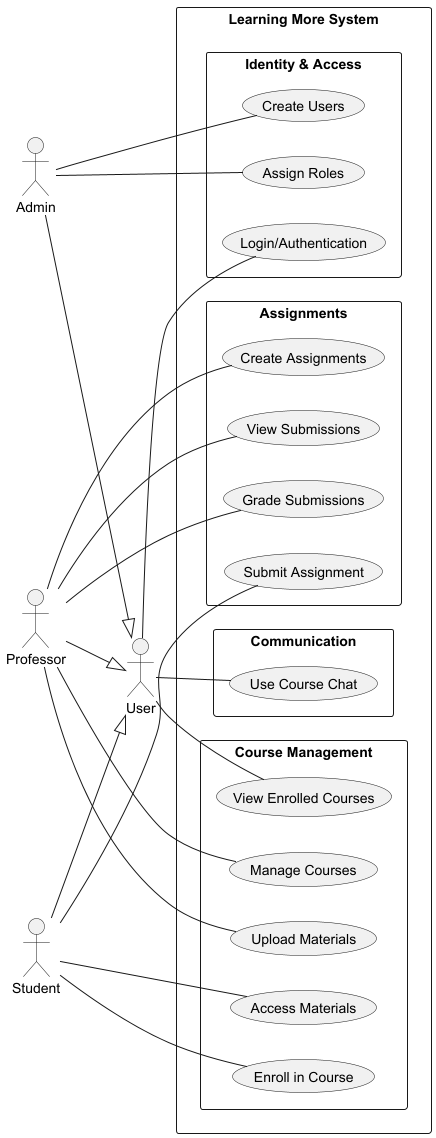
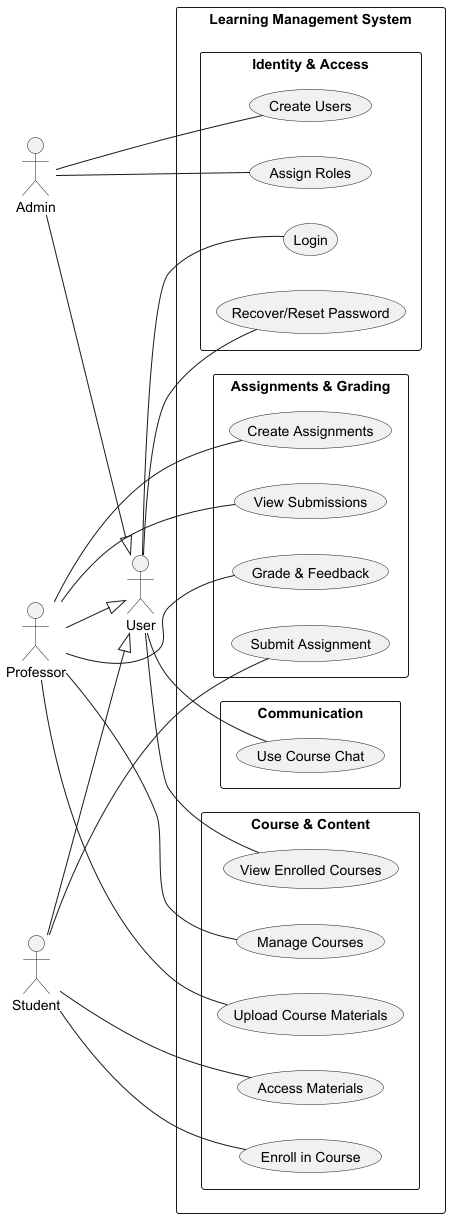
docs: update functional requirements and Phase1-Deliverable.md

diff --git a/Deliverables/Phase1/Phase1-Deliverable.md b/Deliverables/Phase1/Phase1-Deliverable.md
@@ -2,43 +2,43 @@
 
 ## 1. Project Description
 
-LearningMore is a secure academic platform designed to support course management, class materials distribution, assignment submissions, and communication between students and professors.
+LearningMore is a secure academic platform designed to support course management, class materials distribution, assignment
+submissions, and communication between students and professors.
 
-The system is developed in the context of DESOFS and follows a Secure Software Development Lifecycle (SSDLC), focusing on secure design, threat modeling, and risk mitigation.
-
-Phase 1 security scope for this deliverable is restricted to:
-
-* Course Management
-* Assignment Management
+The system is developed in the context of DESOFS and follows a Secure Software Development Lifecycle (SSDLC), focusing 
+on secure design, threat modeling, and risk mitigation.
 
 ---
 
 ## 2. System Overview
 
-### Actors
+### 2.1 Actors
 
-* Admin
-* Professor
-* Student
+* **Admin:** Manages user accounts, roles, and system status.
+* **Professor:** Manages courses, uploads resources, creates assignments, and grades submissions.
+* **Student:** Enrolls in courses, accesses materials, and submits assignments.
+* **User:** General actor representing shared functionalities like Login and Chat.
 
-### Core Components
+### 2.2 Core Components
 
-* REST API
-* Database (relational)
-* File storage system
+* **Service Layer (REST API):** Modular backend handling business logic and security.
+* **Persistence Layer:** Relational database for structured data and metadata.
+* **Storage Layer:** External file storage for academic resources and student uploads.
 
-### Assets
+### 2.3 Assets
 
-* User credentials
-* Course materials
-* Assignment submissions
-* Grades and feedback
-* Chat messages
-* Logs
+* **Identity:** User credentials (hashes) and session tokens.
+* **Content:** Course materials (PDFs, videos) and descriptions.
+* **Evaluation:** Student submissions, final grades, and professor feedback.
+* **Interaction:** Real-time chat messages and logs.
+* **Audit:** Authentication events and system activity logs.
 
-### System Boundary
 
-The system includes the backend API, database, and file storage. External entities interact through HTTP requests.
+### 2.4 System Boundary
+
+The system boundary encompasses the backend API, the relational database, and the file storage system. All external 
+entities (Admin, Professor, and Student) interact with the system exclusively through secure HTTP requests (REST API), 
+which serves as the primary gateway for data exchange and functional execution.
 
 ---
 
@@ -46,16 +46,18 @@ The system includes the backend API, database, and file storage. External entiti
 
 ### User Management
 
-* FR1: Admin can create users
-* FR2: Admin can assign roles
-* FR3: Users can authenticate using email and password
+* FR1: The system shall allow an administrator to create and manage user accounts.
+* FR2: The system shall allow an administrator to assign and modify user roles (Admin, Professor, Student).
+* FR3: The system shall allow users to authenticate securely using their email and password.
+* FR3.1: The system shall provide a mechanism for users to recover or reset their passwords.
 
 ### Course Management
 
-* FR4: Professors can create courses
-* FR5: Professors can manage course information
-* FR6: Students can enroll in courses
-* FR7: Users can view enrolled courses
+* FR4: The system shall allow professors to create new courses with a unique code and title.
+* FR5: The system shall allow professors to update course descriptions and information.
+* FR6: The system shall allow students to enroll in available courses.
+* FR7: The system shall allow users to view a dashboard with their active and enrolled courses.
+* FR8: The system shall allow professors to organize and upload learning resources to their courses.
 
 ### Resource Management
 
@@ -99,7 +101,8 @@ The system includes the backend API, database, and file storage. External entiti
 
 ## 5. Security Requirements
 
-Requirements are justified by threat model results (STRIDE), OWASP ASVS good practices, and academic-record protection obligations (confidentiality, integrity, accountability).
+Requirements are justified by threat model results (STRIDE), OWASP ASVS good practices, and academic-record protection 
+obligations (confidentiality, integrity, accountability).
 
 ### 5.1 Authentication and Access Control (Threat-driven + ASVS V2/V4)
 
@@ -190,19 +193,30 @@ The system follows a layered architecture:
 
 ## 8. Domain Model
 
-Main aggregates:
+The domain model is organized into **Aggregates** to ensure data consistency and define clear boundaries between
+different business contexts.
 
-* User
-* Course
-* Submission
-* Chat
+### Main Aggregates (Aggregate Roots):
 
-Supporting entities:
+* **User:** Manages identity, authentication, and system roles.
+* **Course:** The central hub for academic content, organizing sessions and materials.
+* **Assignment:** Manages the definition of tasks and the lifecycle of student work.
+* **Chat:** Handles the real-time communication infrastructure.
 
-* Enrollment
-* Assignment
-* Resource
-* ChatMessage
+### Supporting Entities (Internal to Aggregates):
+
+* **Within Course:**
+    * **Enrollment:** Records the link between a student and a course.
+    * **ClassSession:** Defines specific scheduled lessons or topics.
+    * **Resource:** Manages files and external links (PDFs, Videos, etc.).
+* **Within Assignment:**
+    * **Submission:** Represents the work delivered by a student, including grades and feedback.
+* **Within Chat:**
+    * **ChatMessage:** The individual messages sent within a specific ChatRoom.
+
+### Domain Model Diagram
+
+![Domain Model](analysis-and-requirements/domain-model.png)
 
 ---
 
@@ -210,19 +224,31 @@ Supporting entities:
 
 ### 9.1 DFD Level 0
 
-(To be added)
+![DFD Level 0](images/DFD%20Level%200%20-%20STRIDE%20diagram.png)
 
 ### 9.2 DFD Level 1
 
-(To be added)
+![DFD Level 1](images/Core%20DFD.png)
+
+### 9.3 DFD Level 2 - User Management
+
+![DFD Level 2 - User Management](images/DFD%20Level%202%20-%20User%20Management%20STRIDE%20diagram.png)
 
 ### 9.3 DFD Level 2 - Course
 
-![Course DFD](imgs/coursedfd.png)
+![DFD Level 2 - Course Management](images/coursedfd.png)
 
 ### 9.4 DFD Level 2 - Assignment
 
-![Assignment DFD](imgs/assignementdfd.png)
+![DFD Level 2 - Assigment Management](images/assignementdfd.png)
+
+### 9.3 DFD Level 2 - Chat
+
+![DFD Level 2 - Chat Management](images/DFD%20Level%202%20-%20Chat%20Management%20STRIDE%20diagram.png)
+
+### 9.4 DFD Level 2 - File
+
+![DFD Level 2 - File Management](images/DFD%20Level%202%20-%20File%20Management%20STRIDE%20diagram.png)
 
 ---
 
@@ -290,16 +316,16 @@ Prioritization rule:
 
 Top prioritized risks (course + assignment):
 
-| Risk ID | Threat | L | I | Score | Priority | Justification |
-|---|---|---:|---:|---:|---|---|
-| R1 | Forged JWT/token bypasses access control | 4 | 5 | 20 | Critical | Enables unauthorized access to core academic operations across modules |
-| R2 | Privilege escalation/authorization bypass (grading, enrollment) | 4 | 5 | 20 | Critical | Compromises grading and enrollment integrity directly |
-| R3 | Unauthorized read of grades/submissions/course restricted data | 4 | 5 | 20 | Critical | Direct confidentiality breach of academic records |
-| R4 | Grade/deadline/enrollment tampering | 4 | 5 | 20 | Critical | Direct integrity violation with high institutional impact |
-| R5 | Audit trail tampering or missing evidence | 3 | 5 | 15 | High | Breaks accountability and dispute resolution |
-| R6 | SQL injection in course queries | 3 | 5 | 15 | High | Potential bulk data exfiltration/tampering |
-| R7 | DoS on submission/enrollment/grading endpoints | 4 | 4 | 16 | High | Directly impacts availability during critical deadlines |
-| R8 | Repudiation of enrollment/grading actions | 3 | 3 | 9 | Medium | Lower immediate impact but affects legal/academic dispute handling |
+| Risk ID | Threat                                                          | L | I | Score | Priority | Justification                                                          |
+|---------|-----------------------------------------------------------------|--:|--:|------:|----------|------------------------------------------------------------------------|
+| R1      | Forged JWT/token bypasses access control                        | 4 | 5 |    20 | Critical | Enables unauthorized access to core academic operations across modules |
+| R2      | Privilege escalation/authorization bypass (grading, enrollment) | 4 | 5 |    20 | Critical | Compromises grading and enrollment integrity directly                  |
+| R3      | Unauthorized read of grades/submissions/course restricted data  | 4 | 5 |    20 | Critical | Direct confidentiality breach of academic records                      |
+| R4      | Grade/deadline/enrollment tampering                             | 4 | 5 |    20 | Critical | Direct integrity violation with high institutional impact              |
+| R5      | Audit trail tampering or missing evidence                       | 3 | 5 |    15 | High     | Breaks accountability and dispute resolution                           |
+| R6      | SQL injection in course queries                                 | 3 | 5 |    15 | High     | Potential bulk data exfiltration/tampering                             |
+| R7      | DoS on submission/enrollment/grading endpoints                  | 4 | 4 |    16 | High     | Directly impacts availability during critical deadlines                |
+| R8      | Repudiation of enrollment/grading actions                       | 3 | 3 |     9 | Medium   | Lower immediate impact but affects legal/academic dispute handling     |
 
 Risk acceptance criteria:
 
@@ -316,16 +342,16 @@ Mitigations are prioritized by risk score and focus first on Critical and High r
 
 Priority mitigation plan:
 
-| Risk ID | Key Mitigations | Feasibility | Priority |
-|---|---|---|---|
-| R1 | JWT signature/issuer/audience/expiry validation, short token TTL, refresh rotation, revocation list | High (framework supported) | Immediate |
-| R2 | Centralized authorization service, deny-by-default RBAC, ownership/enrollment checks per request, negative-path tests | High | Immediate |
-| R3 | Row-level authorization, response field filtering, secure object references, strict course-enrollment checks for reads | Medium-High | Immediate |
-| R4 | Server-side schema validation, immutable audit of grade/deadline/enrollment changes, optimistic locking/version checks | Medium | Immediate |
-| R5 | Append-only audit log storage, signed/hash-chained entries, separated log access roles, off-system replication | Medium | Immediate |
-| R6 | Parameterized queries only, ORM safe patterns, input allowlists, SAST rules for injection sinks | High | Immediate |
-| R7 | Endpoint rate limits, quota per actor/course, bounded worker pools, queue/backpressure, API circuit breakers | High | Immediate |
-| R8 | Actor-bound non-repudiation metadata (timestamp, IP, actor id), event correlation IDs, retention policy | High | Planned |
+| Risk ID | Key Mitigations                                                                                                        | Feasibility                | Priority  |
+|---------|------------------------------------------------------------------------------------------------------------------------|----------------------------|-----------|
+| R1      | JWT signature/issuer/audience/expiry validation, short token TTL, refresh rotation, revocation list                    | High (framework supported) | Immediate |
+| R2      | Centralized authorization service, deny-by-default RBAC, ownership/enrollment checks per request, negative-path tests  | High                       | Immediate |
+| R3      | Row-level authorization, response field filtering, secure object references, strict course-enrollment checks for reads | Medium-High                | Immediate |
+| R4      | Server-side schema validation, immutable audit of grade/deadline/enrollment changes, optimistic locking/version checks | Medium                     | Immediate |
+| R5      | Append-only audit log storage, signed/hash-chained entries, separated log access roles, off-system replication         | Medium                     | Immediate |
+| R6      | Parameterized queries only, ORM safe patterns, input allowlists, SAST rules for injection sinks                        | High                       | Immediate |
+| R7      | Endpoint rate limits, quota per actor/course, bounded worker pools, queue/backpressure, API circuit breakers           | High                       | Immediate |
+| R8      | Actor-bound non-repudiation metadata (timestamp, IP, actor id), event correlation IDs, retention policy                | High                       | Planned   |
 
 Implementation order:
 
@@ -414,22 +440,22 @@ Traceability standard:
 
 Course + Assignment scoped traceability (extract):
 
-| Requirement | Threat(s) | Mitigation(s) | Security Test(s) |
-|---|---|---|---|
-| SR2 Secure authentication | A1, C1, C2, A12 | JWT hardening, lockout, MFA for privileged roles | ST-01 invalid/forged token rejection; ST-02 credential stuffing lockout |
-| SR4 RBAC enforcement | A2, A13, C10, C11 | Centralized authorization with deny-by-default | ST-03 student cannot execute professor-only actions |
-| SR5 Permission-bound access | A4, A9, A14, C8 | Row-level checks, object ownership validation | ST-04 unauthorized user cannot read grades/submissions/course private data |
-| SR6 Enrollment validation for course data | C8, C9, C10 | Enrollment precondition checks for reads and writes | ST-05 non-enrolled student denied restricted course operations |
-| SR7 No sensitive data in logs | A4, C15 | Log redaction and structured logging policies | ST-06 verify logs contain no sensitive payload fields |
-| SR9 File/data access authorization | A9, A10, A15 | Authorized access policy plus integrity controls | ST-07 unauthorized file read/write blocked |
-| SR10 Server-side input validation | A7, C3, C4, C5, C18 | Strict validation schemas and business-rule validation | ST-08 invalid payloads rejected with safe errors |
-| SR11 Upload validation | A3, A5, A10 | File type/size checks, malware scanning, integrity checks | ST-09 malicious or oversized upload rejected |
-| SR12 Path traversal prevention | A9 | Canonical path controls, storage isolation | ST-10 traversal payloads cannot escape storage root |
-| SR13 HTTPS communication | A1, C1 | TLS-only transport and strict redirect policies | ST-11 plaintext HTTP denied in production profile |
-| SR14 Secure headers | C8, A14 | Security headers and cache-control hardening | ST-12 headers validated in all auth/data endpoints |
-| SR15 Third-party dependency security | C16 | Dependency scanning and patch policy | ST-13 CI dependency vulnerability gate |
-| SR16 Security event logging | A6, A11, A16, C12, C13, C17 | Append-only audit logging and correlation IDs | ST-14 all sensitive actions generate auditable events |
-| SR17 No sensitive information in monitoring outputs | A4, C15 | Redaction in logs/traces/alerts | ST-15 observability data reviewed for leakage |
+| Requirement                                         | Threat(s)                   | Mitigation(s)                                             | Security Test(s)                                                           |
+|-----------------------------------------------------|-----------------------------|-----------------------------------------------------------|----------------------------------------------------------------------------|
+| SR2 Secure authentication                           | A1, C1, C2, A12             | JWT hardening, lockout, MFA for privileged roles          | ST-01 invalid/forged token rejection; ST-02 credential stuffing lockout    |
+| SR4 RBAC enforcement                                | A2, A13, C10, C11           | Centralized authorization with deny-by-default            | ST-03 student cannot execute professor-only actions                        |
+| SR5 Permission-bound access                         | A4, A9, A14, C8             | Row-level checks, object ownership validation             | ST-04 unauthorized user cannot read grades/submissions/course private data |
+| SR6 Enrollment validation for course data           | C8, C9, C10                 | Enrollment precondition checks for reads and writes       | ST-05 non-enrolled student denied restricted course operations             |
+| SR7 No sensitive data in logs                       | A4, C15                     | Log redaction and structured logging policies             | ST-06 verify logs contain no sensitive payload fields                      |
+| SR9 File/data access authorization                  | A9, A10, A15                | Authorized access policy plus integrity controls          | ST-07 unauthorized file read/write blocked                                 |
+| SR10 Server-side input validation                   | A7, C3, C4, C5, C18         | Strict validation schemas and business-rule validation    | ST-08 invalid payloads rejected with safe errors                           |
+| SR11 Upload validation                              | A3, A5, A10                 | File type/size checks, malware scanning, integrity checks | ST-09 malicious or oversized upload rejected                               |
+| SR12 Path traversal prevention                      | A9                          | Canonical path controls, storage isolation                | ST-10 traversal payloads cannot escape storage root                        |
+| SR13 HTTPS communication                            | A1, C1                      | TLS-only transport and strict redirect policies           | ST-11 plaintext HTTP denied in production profile                          |
+| SR14 Secure headers                                 | C8, A14                     | Security headers and cache-control hardening              | ST-12 headers validated in all auth/data endpoints                         |
+| SR15 Third-party dependency security                | C16                         | Dependency scanning and patch policy                      | ST-13 CI dependency vulnerability gate                                     |
+| SR16 Security event logging                         | A6, A11, A16, C12, C13, C17 | Append-only audit logging and correlation IDs             | ST-14 all sensitive actions generate auditable events                      |
+| SR17 No sensitive information in monitoring outputs | A4, C15                     | Redaction in logs/traces/alerts                           | ST-15 observability data reviewed for leakage                              |
 
 Threat key:
 
@@ -437,10 +463,3 @@ Threat key:
 * C# = Course threat number from docs/diagrams/dfd-level-2-course-management-threat-dragon.json
 
 ---
-
-## 17. References
-
-* Domain Model (PlantUML)
-* Abuse Cases document
-* Requirements documents
-* Repository structure

diff --git a/docs/requirements/functional-requirements.md b/docs/requirements/functional-requirements.md
@@ -2,51 +2,53 @@
 
 ## User Management
 
-FR1: The system shall allow an admin to create users  
-FR2: The system shall allow an admin to assign roles (Admin, Professor, Student)  
-FR3: The system shall allow users to authenticate using email and password
+FR1: The system shall allow an administrator to create and manage user accounts.
+FR2: The system shall allow an administrator to assign and modify user roles (Admin, Professor, Student).
+FR3: The system shall allow users to authenticate securely using their email and password.
+FR3.1: The system shall provide a mechanism for users to recover or reset their passwords.
 
 ## Course Management
 
-FR4: The system shall allow professors to create courses  
-FR5: The system shall allow professors to update course information  
-FR6: The system shall allow students to enroll in courses  
-FR7: The system shall allow users to view courses they are enrolled in
+FR4: The system shall allow professors to create new courses with a unique code and title.
+FR5: The system shall allow professors to update course descriptions and information.
+FR6: The system shall allow students to enroll in available courses.
+FR7: The system shall allow users to view a dashboard with their active and enrolled courses.
+FR8: The system shall allow professors to organize and upload learning resources to their courses.
 
 ## Class Sessions
 
-FR8: The system shall allow professors to create class sessions  
-FR9: The system shall allow users to view class sessions
+FR9: The system shall allow professors to create class sessions  
+FR10: The system shall allow users to view class sessions
 
 ## Resource Management
 
-FR10: The system shall allow professors to upload course materials  
-FR11: The system shall allow students to access materials for enrolled courses
+FR11: The system shall allow professors to upload course materials  
+FR12: The system shall allow students to access materials for enrolled courses
 
 ## Assignment Management
 
-FR12: The system shall allow professors to create assignments  
-FR13: The system shall define deadlines for assignments
+FR13: The system shall allow professors to create assignments  
+FR14: The system shall define deadlines for assignments
 
 ## Submission Management
 
-FR14: The system shall allow students to submit assignments  
-FR15: The system shall allow professors to view submissions  
-FR16: The system shall associate submissions with users and assignments
+FR15: The system shall allow students to submit assignments  
+FR16: The system shall allow professors to view submissions  
+FR17: The system shall associate submissions with users and assignments
 
 ## Chat System
 
-FR17: The system shall allow creation of course chat rooms
-FR18: The system shall allow users to send messages in course chat rooms  
-FR19: The system shall allow users to read messages within their course
-FR20: The system shall restrict course chat rooms to enrolled students only
-FR21: The system shall allow moderators (professors) to delete inappropriate messages
+FR18: The system shall allow creation of course chat rooms
+FR19: The system shall allow users to send messages in course chat rooms  
+FR20: The system shall allow users to read messages within their course
+FR21: The system shall restrict course chat rooms to enrolled students only
+FR22: The system shall allow moderators (professors) to delete inappropriate messages
  
 
 ## Logging
 
-FR22: The system shall log authentication attempts  
-FR23: The system shall log critical actions (uploads, submissions, access)
-FR24: The system shall include timestamp information for all log entries.
-FR25: The system shall include the user identifier associated with each logged action, where applicable.
-FR26: The system shall log the origin of requests, including IP address or service identifier.
+FR23: The system shall log authentication attempts  
+FR24: The system shall log critical actions (uploads, submissions, access)
+FR25: The system shall include timestamp information for all log entries.
+FR26: The system shall include the user identifier associated with each logged action, where applicable.
+FR27: The system shall log the origin of requests, including IP address or service identifier.
